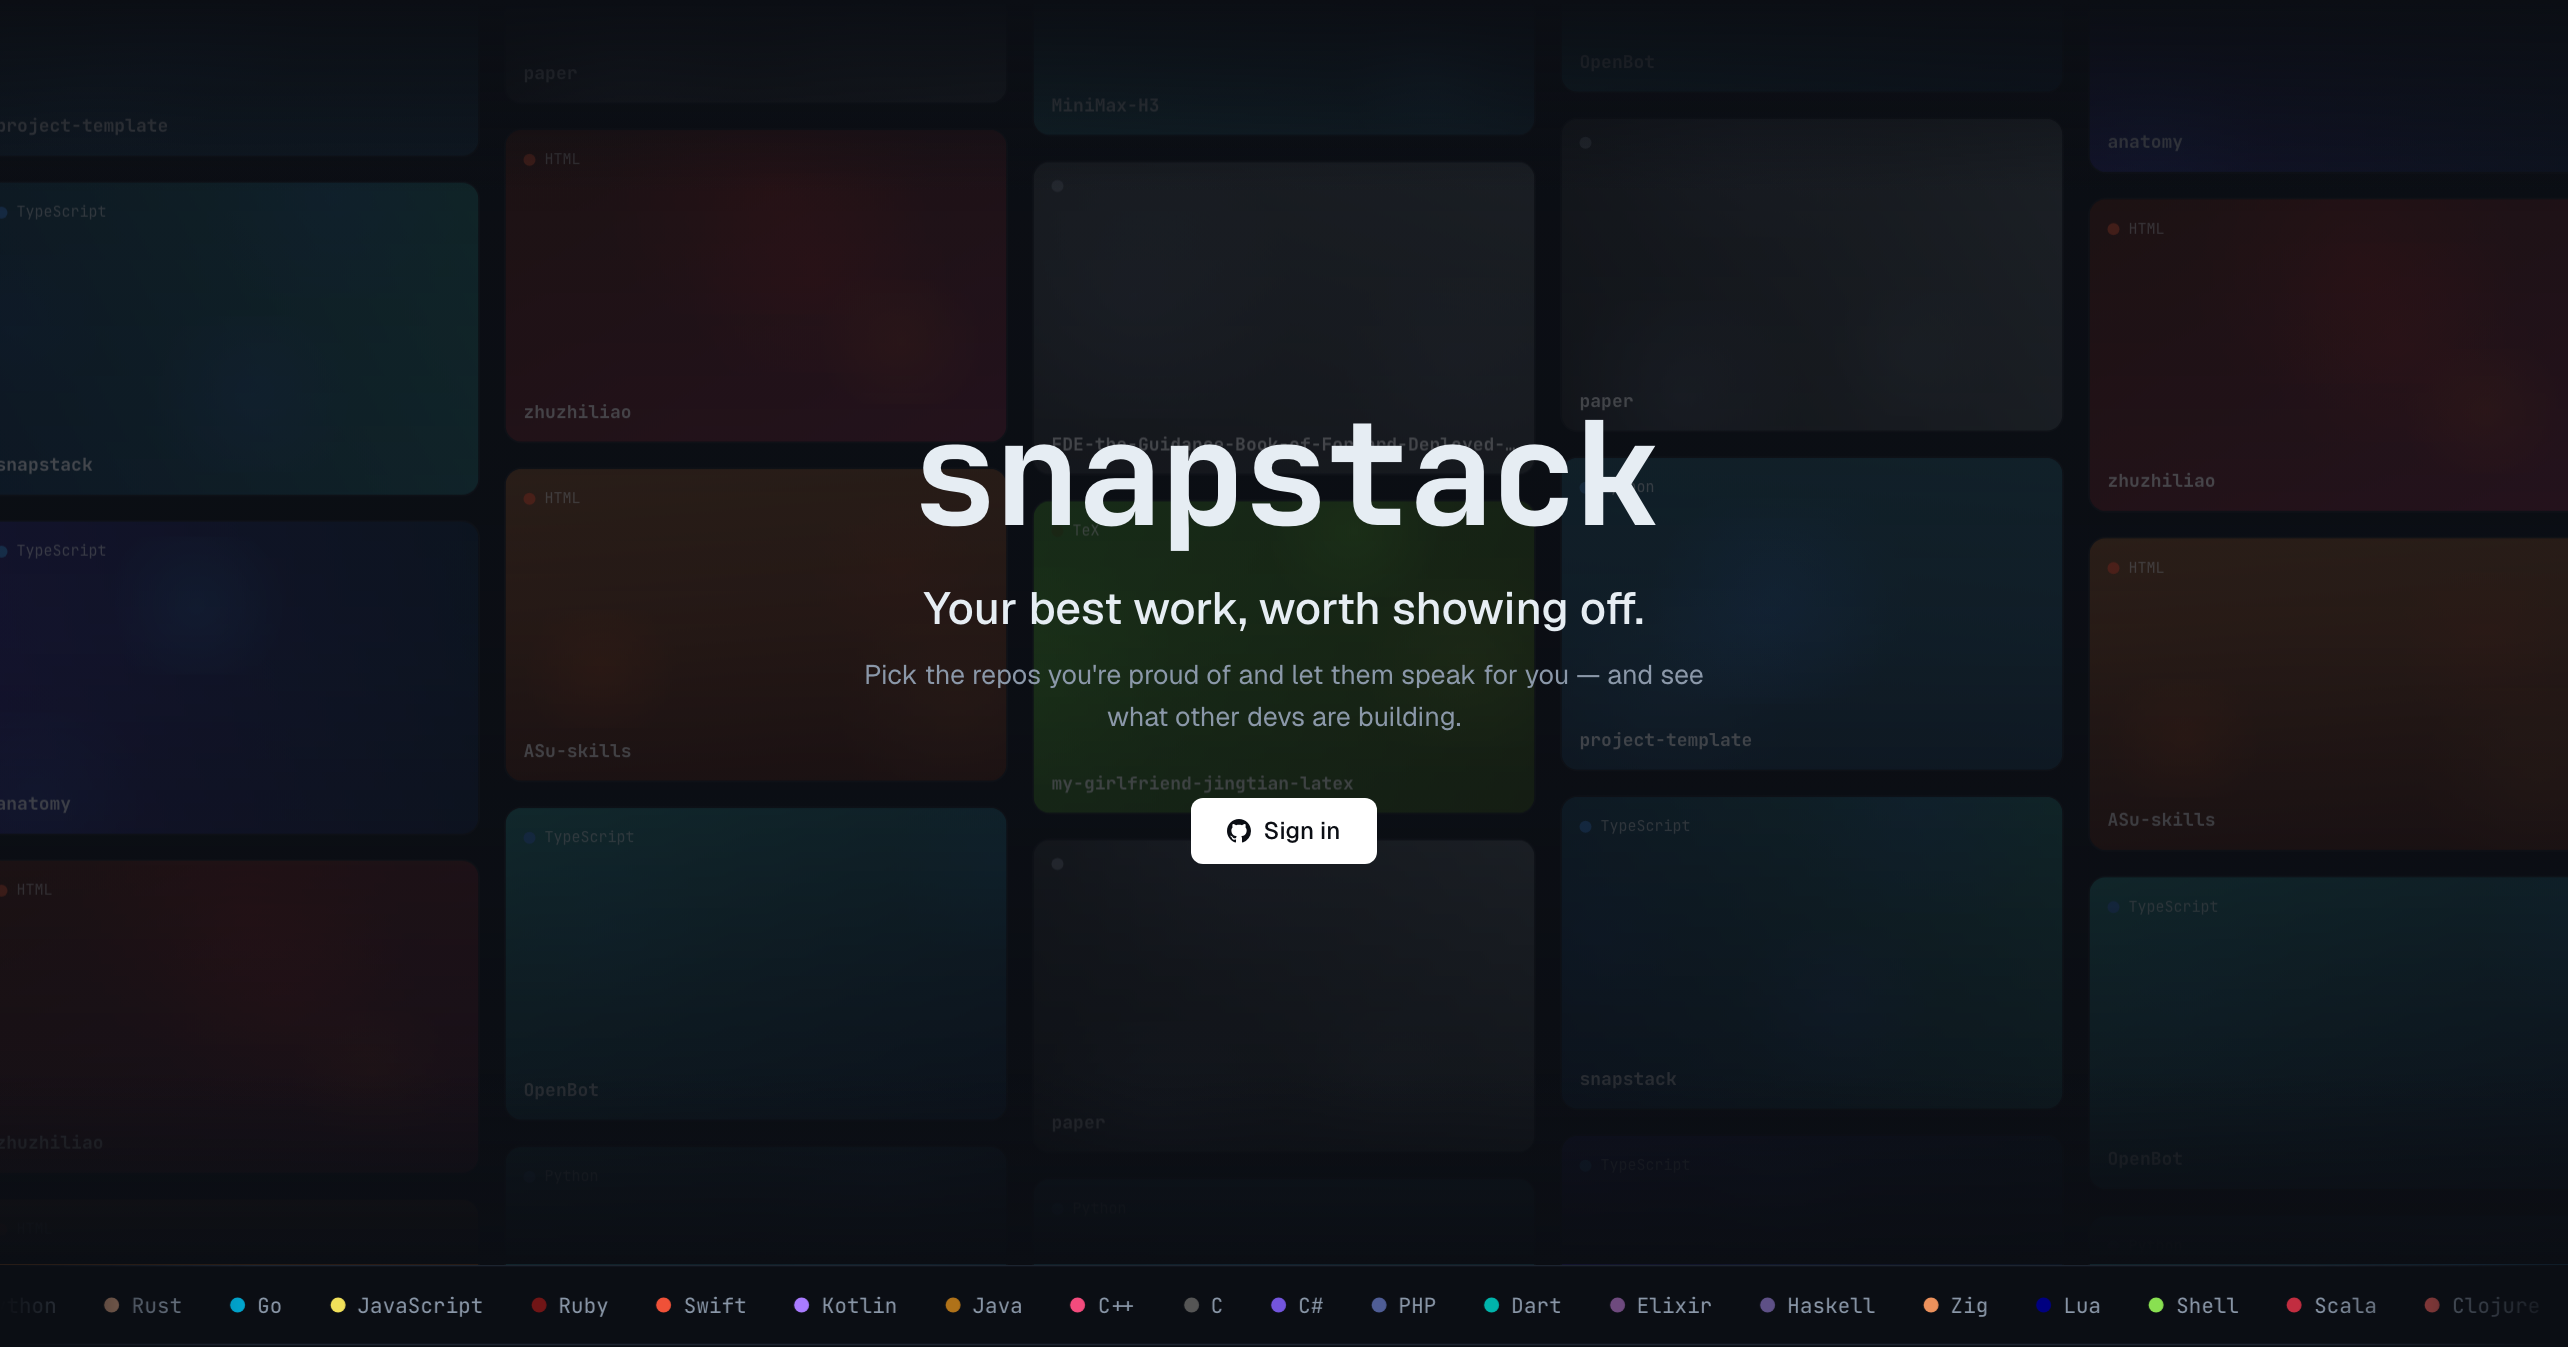
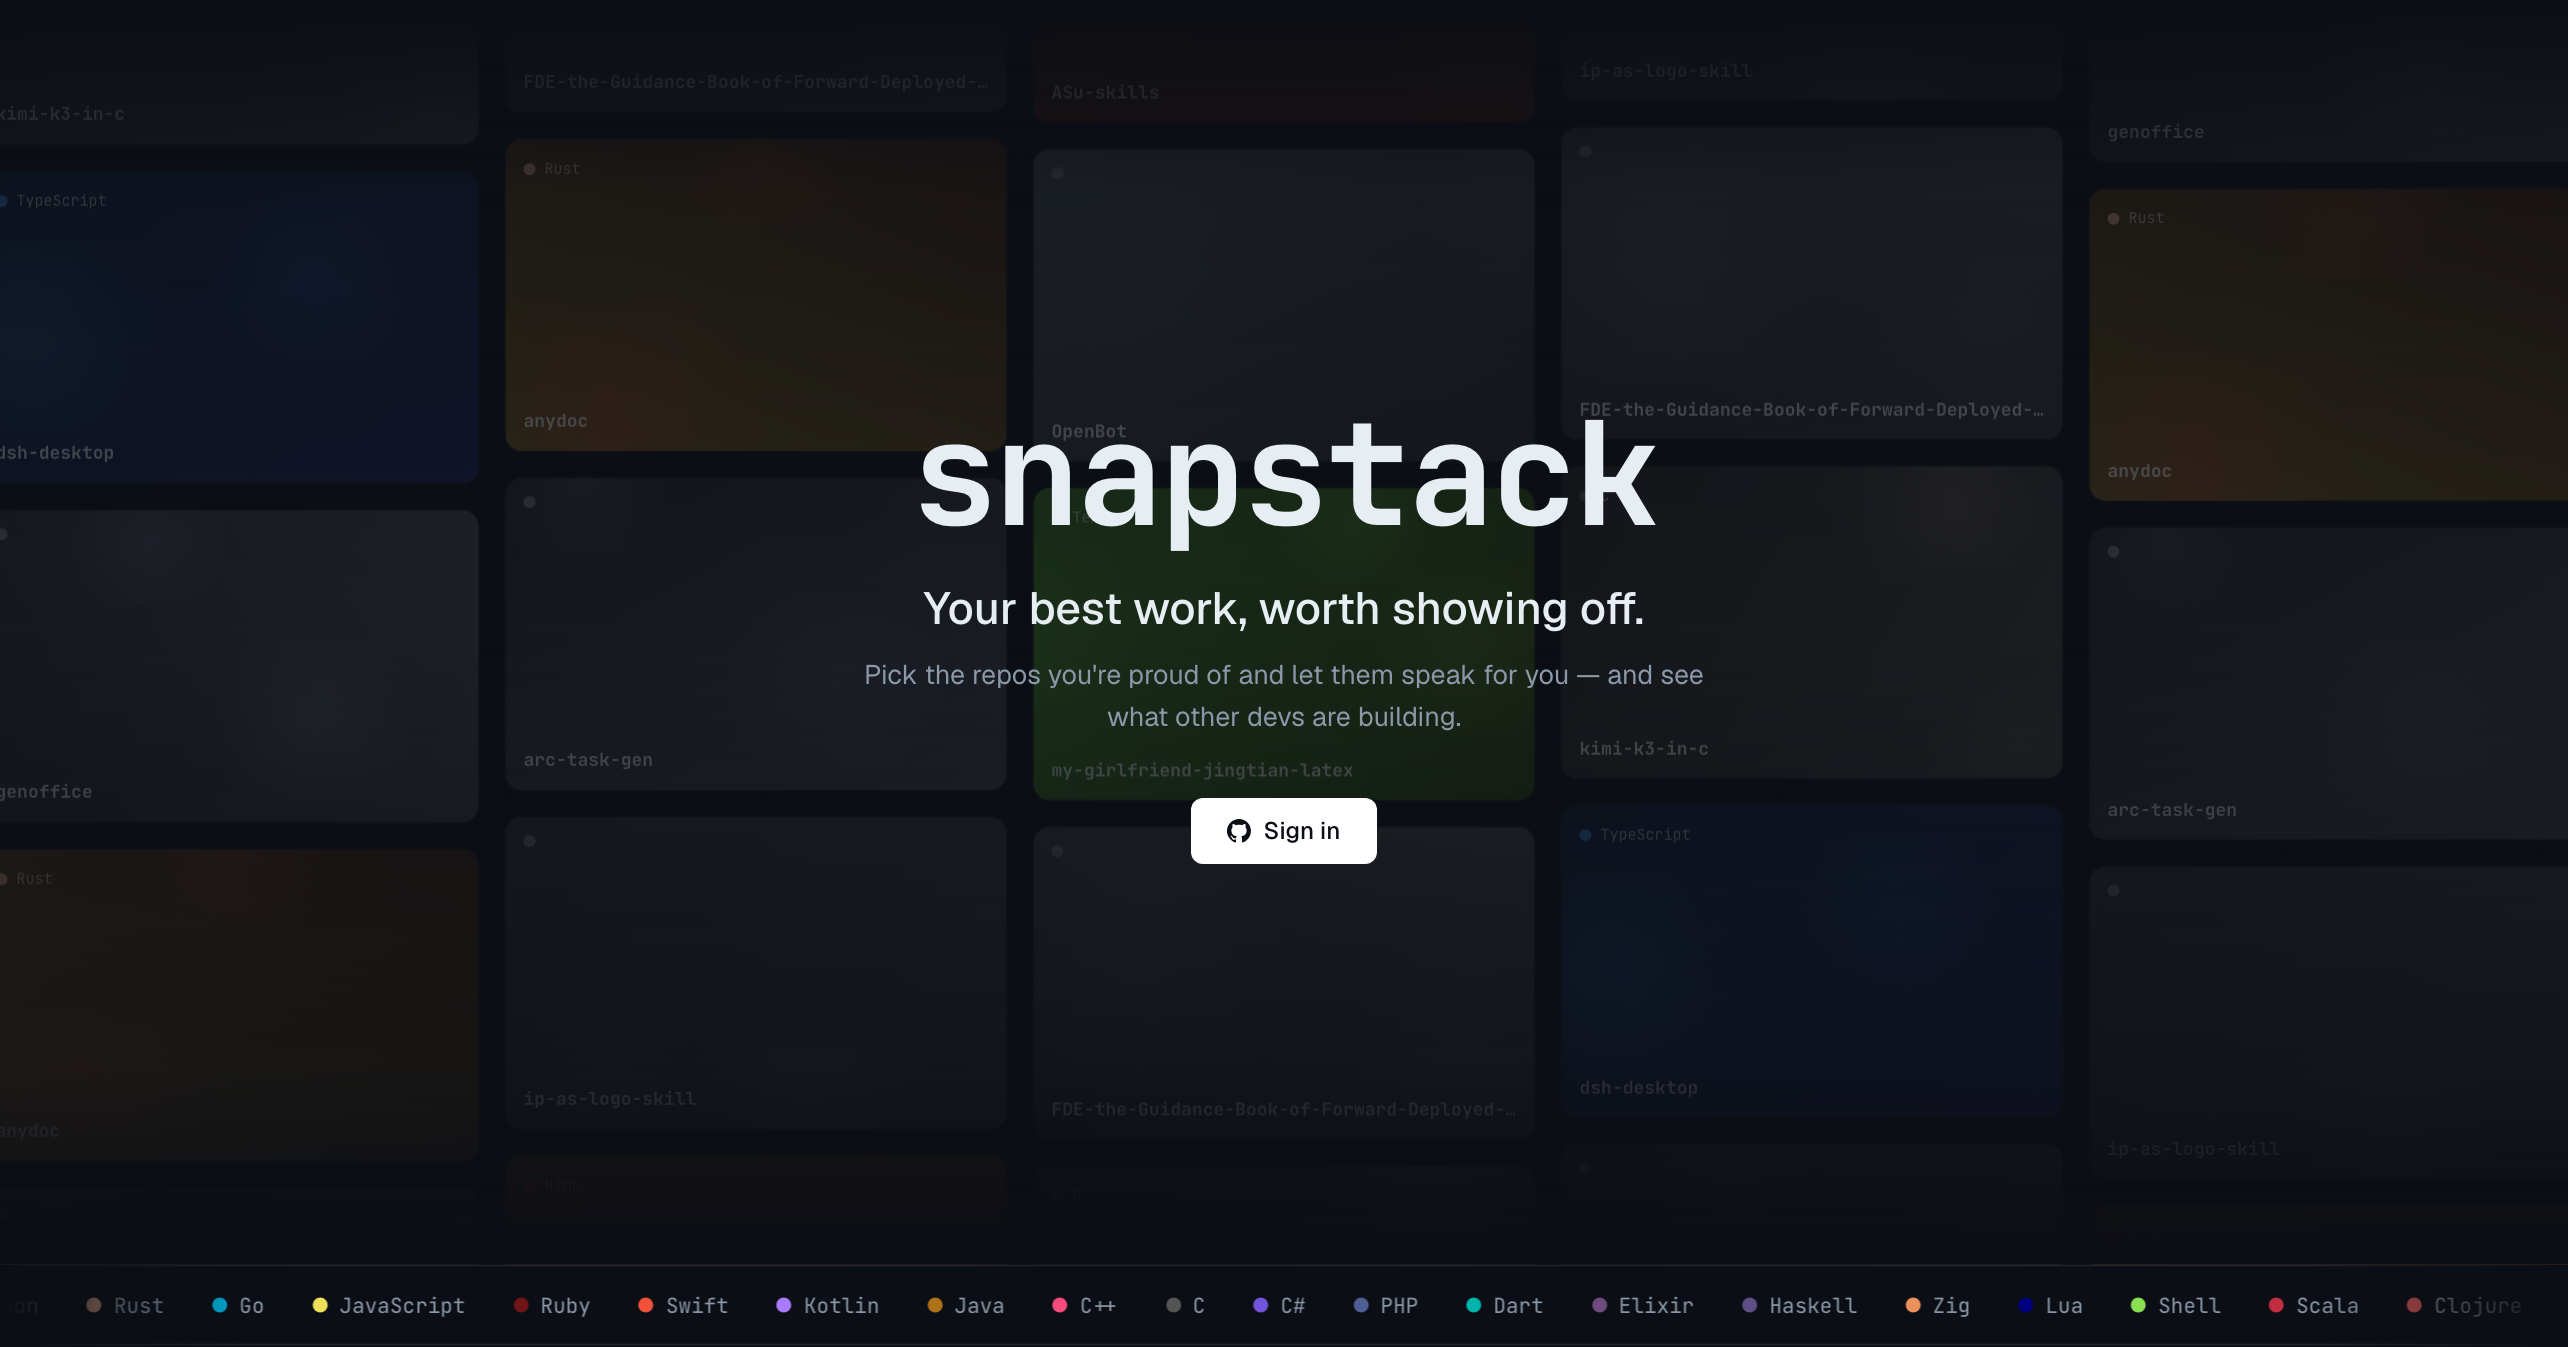
Restore the home og:image and recapture the hero
snapstack.sh/og-home.png was returning 404: the file had been renamed
to og-home-new.png while the home metadata still points at
/og-home.png, so shared links lost their cover. The fresh hero capture
lands at both sizes — 1712x898 for the README banner and 1200x630 for
the og image at the name the metadata expects.

diff --git a/changelog/2026-08-29_21-32_og-image-recuperada.md b/changelog/2026-08-29_21-32_og-image-recuperada.md
@@ -1,0 +1,20 @@
+# La og:image vuelve a existir (y se recaptura)
+
+**Fecha:** ver nombre del archivo
+**Tipo:** Fix
+**Requisitos:** Ninguno
+
+## El fallo
+
+`https://snapstack.sh/og-home.png` devolvía **404**: un commit del 2026-08-29 renombró
+`public/og-home.png` a `public/og-home-new.png`, y el metadato de la home sigue apuntando a
+`/og-home.png`. Con la portada rota, snapstack.sh se pegaba en Slack, X o LinkedIn como un
+enlace pelado.
+
+## Qué se hizo
+
+- Recaptura del hero con el estado actual de la landing (1712×898, recortada al borde del
+  marquee) para `.github/assets/hero.png` — la cabecera del README — y su versión 1200×630
+  en `public/og-home.png`, que es la que el metadato busca.
+- Queda pendiente decidir qué hacer con `public/og-home-new.png`: es la captura anterior, ya
+  sin referencias.
